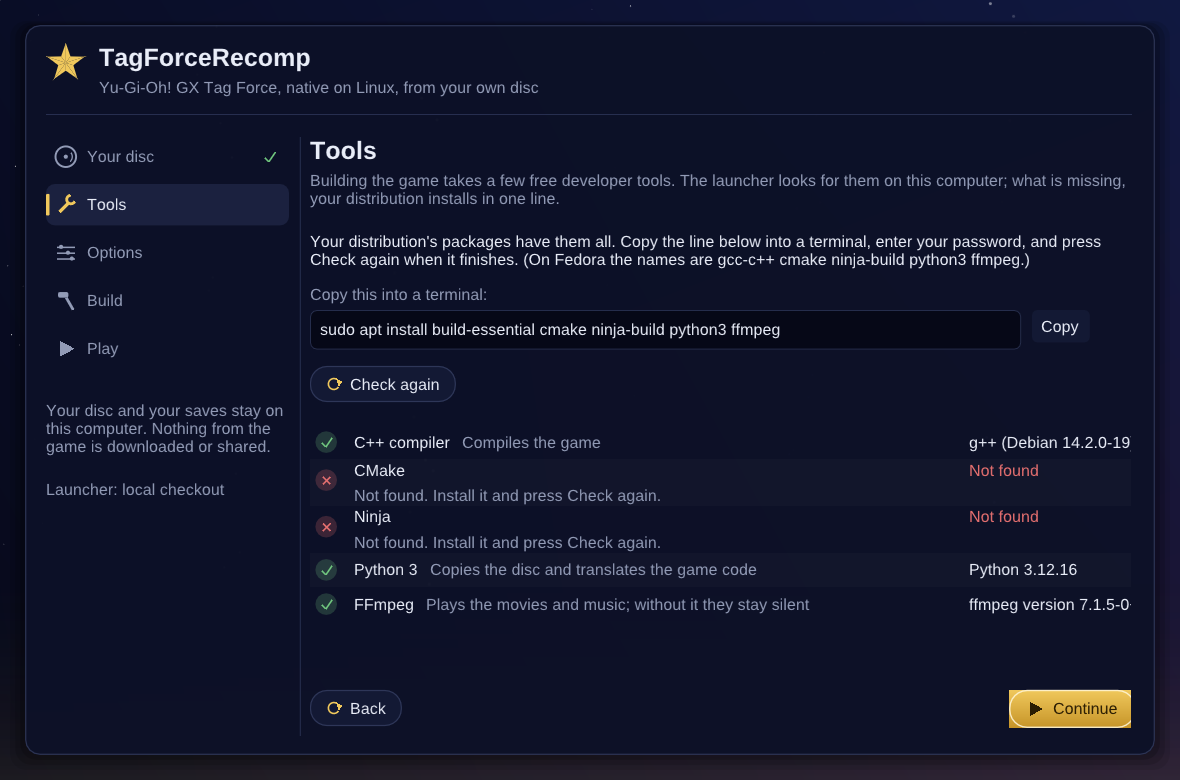
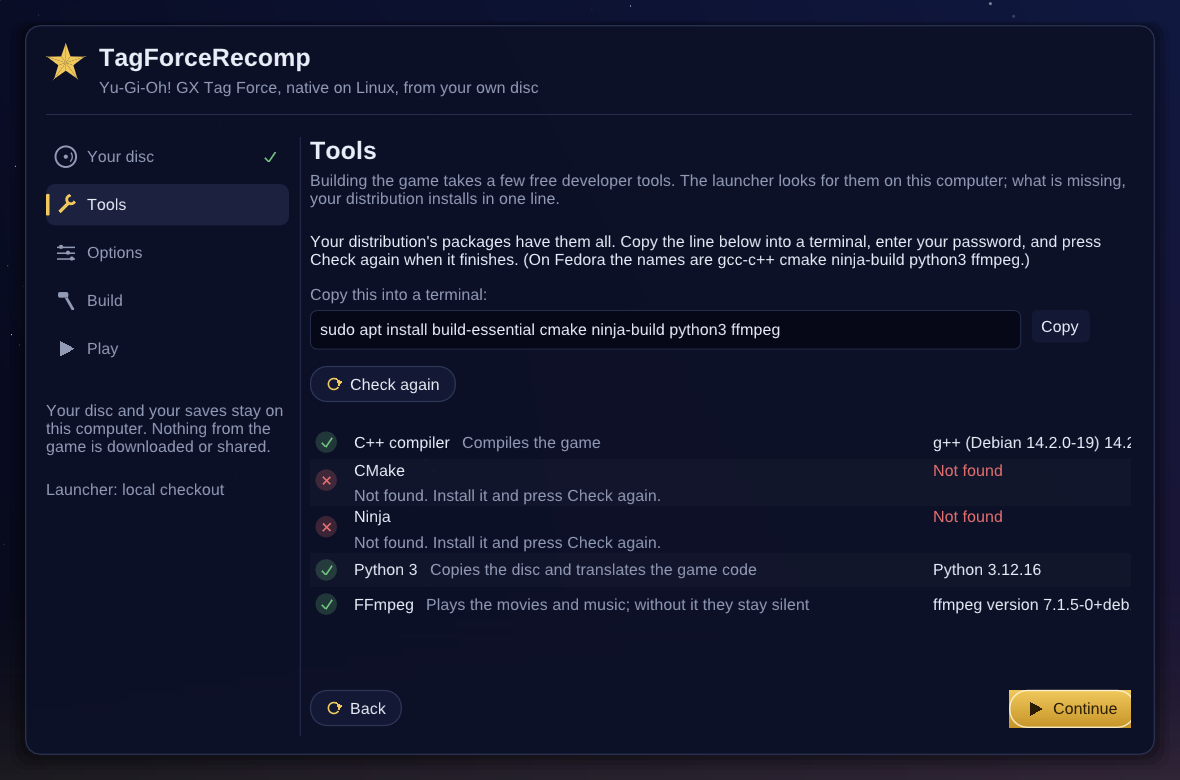
Launcher: the tools page's version column ends long strings cleanly
Distribution version lines ("g++ (Debian 14.2.0-19)") were clipped by the
column edge; the column is wider now and over-long versions end with an
ellipsis. The live screenshot in the docs picks up the fix.

diff --git a/tools/launcher/launcher_app.cpp b/tools/launcher/launcher_app.cpp
@@ -1273,7 +1273,7 @@ void LauncherApp::drawToolsPage() {
     if (ImGui::BeginTable("##tools", 3, ImGuiTableFlags_SizingStretchProp | ImGuiTableFlags_RowBg)) {
         ImGui::TableSetupColumn("##state", ImGuiTableColumnFlags_WidthFixed, em(2.0f));
         ImGui::TableSetupColumn("##what", ImGuiTableColumnFlags_WidthStretch);
-        ImGui::TableSetupColumn("##version", ImGuiTableColumnFlags_WidthFixed, em(9.0f));
+        ImGui::TableSetupColumn("##version", ImGuiTableColumnFlags_WidthFixed, em(11.0f));
         const float row = em(1.9f);
         const float padding = ImGui::GetStyle().CellPadding.y;
         for (const ToolCheck &tool : report->tools) {
@@ -1304,11 +1304,14 @@ void LauncherApp::drawToolsPage() {
             ImGui::PopStyleColor();
             ImGui::TableNextColumn();
             ImGui::SetCursorPosY(ImGui::GetCursorPosY() + lift);
-            if (tool.found)
+            if (tool.found) {
+                // Long distribution strings ("g++ (Debian 14.2.0-19)") end cleanly.
+                std::string shown = tool.version.size() > 30 ? tool.version.substr(0, 29) + "..." : tool.version;
                 ImGui::TextColored(palette::rgba(tool.problem.empty() ? palette::kText : palette::kWarn), "%s",
-                                   tool.version.c_str());
-            else
+                                   shown.c_str());
+            } else {
                 ImGui::TextColored(palette::rgba(tool.optional ? palette::kWarn : palette::kBad), "Not found");
+            }
         }
         ImGui::EndTable();
     }
